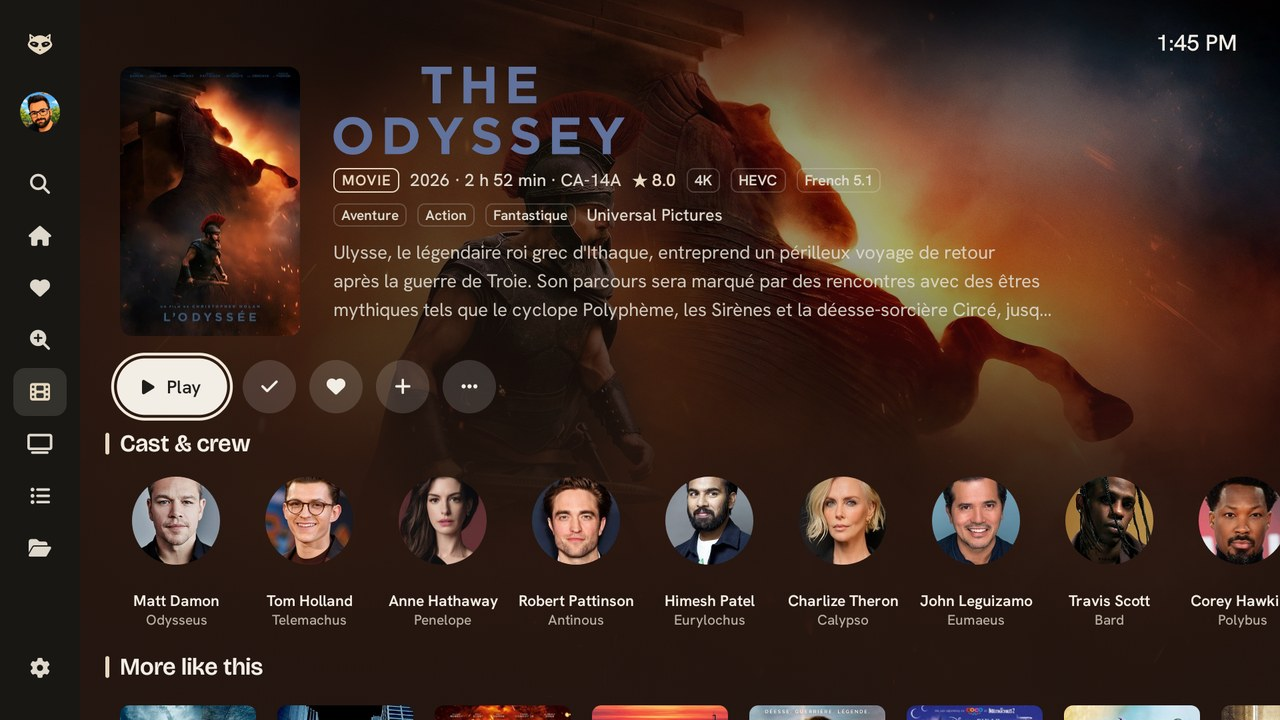
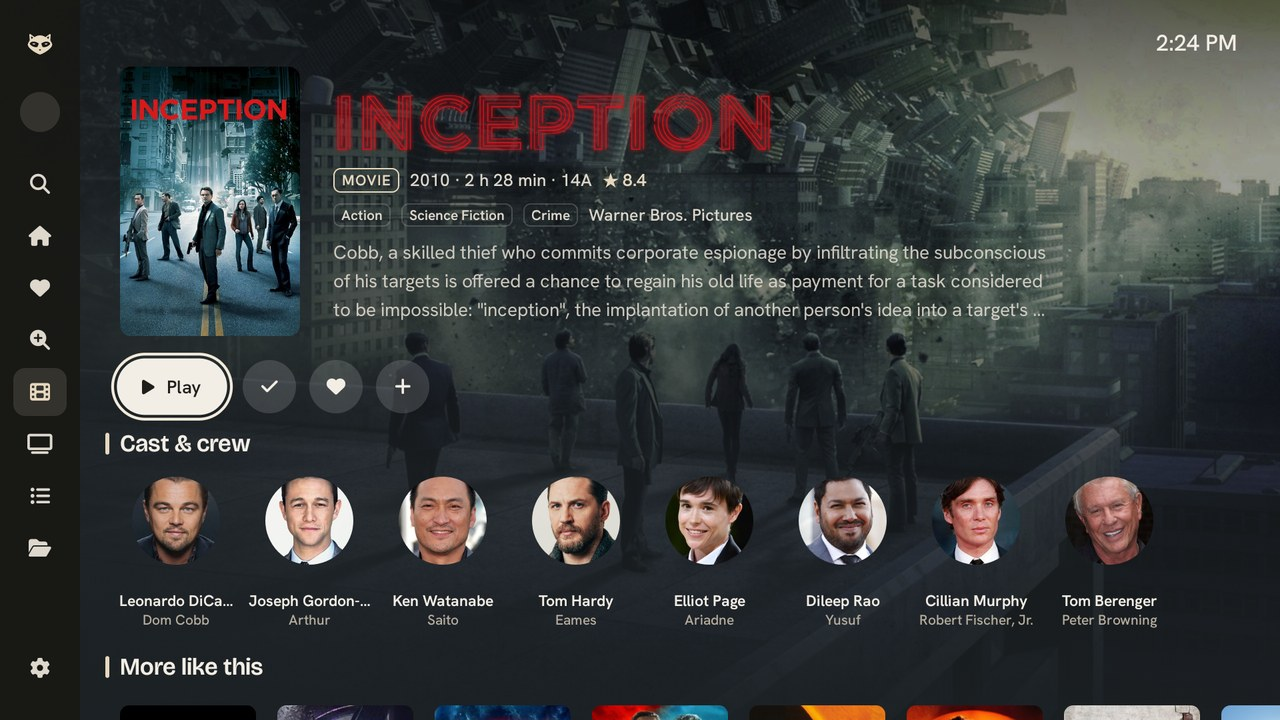
docs: retake the screenshots against a synthetic blockbuster library
The real library showed a title without artwork and mixed languages
with the English UI. The four shots now come from a throwaway
container serving thirty blockbusters with TMDB artwork in English
— every poster present, titles, overviews and genres matching the
UI — driven on the same emulator build. The arc stays Home to the
player: home rows, the Movies grid, Inception's page, and the
player paused over the film. Discover was dropped: it reads from
the Rawkoon server, which the throwaway does not serve.

diff --git a/README.md b/README.md
@@ -49,8 +49,6 @@ set up against Jellyfin 12 or later; see the [TV app guide](https://samlo.cloud/
 </tr><tr>
 <td><img src="assets/screenshots/details.jpg" alt="A movie's page" width="420"/><br/><sub>A movie's page</sub></td>
 <td><img src="assets/screenshots/playback.jpg" alt="The player over a paused film" width="420"/><br/><sub>Player</sub></td>
-</tr><tr>
-<td><img src="assets/screenshots/discover.jpg" alt="Discover" width="420"/><br/><sub>Discover</sub></td>
 </tr></table>
 </p>
 
